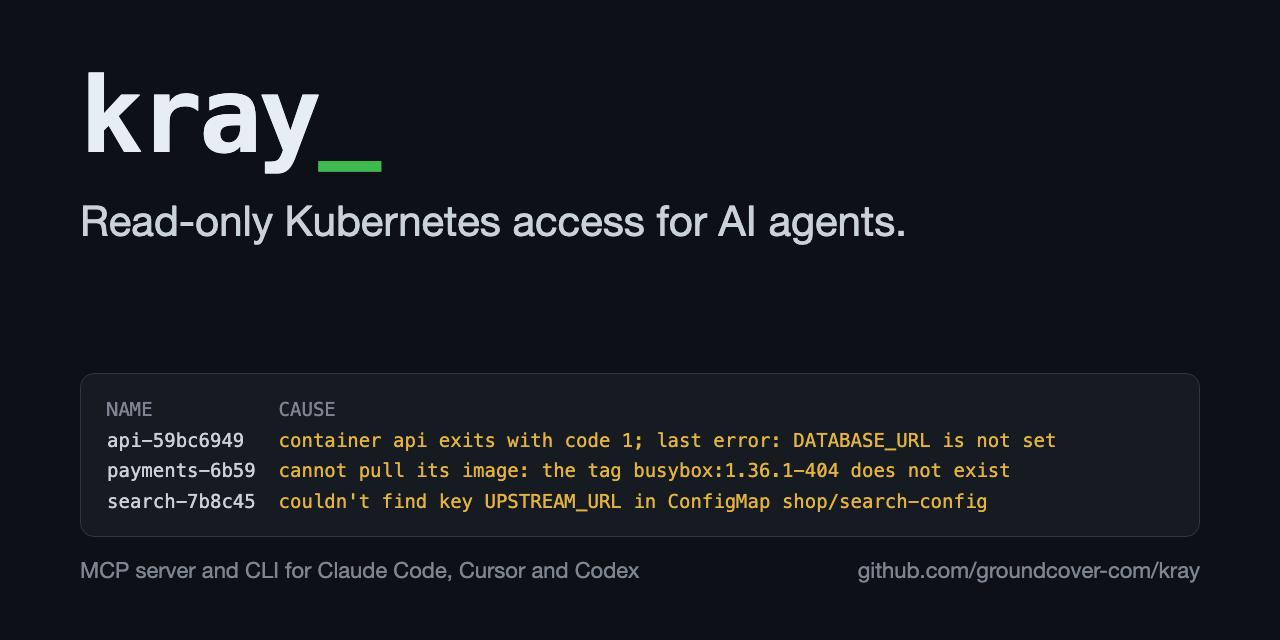
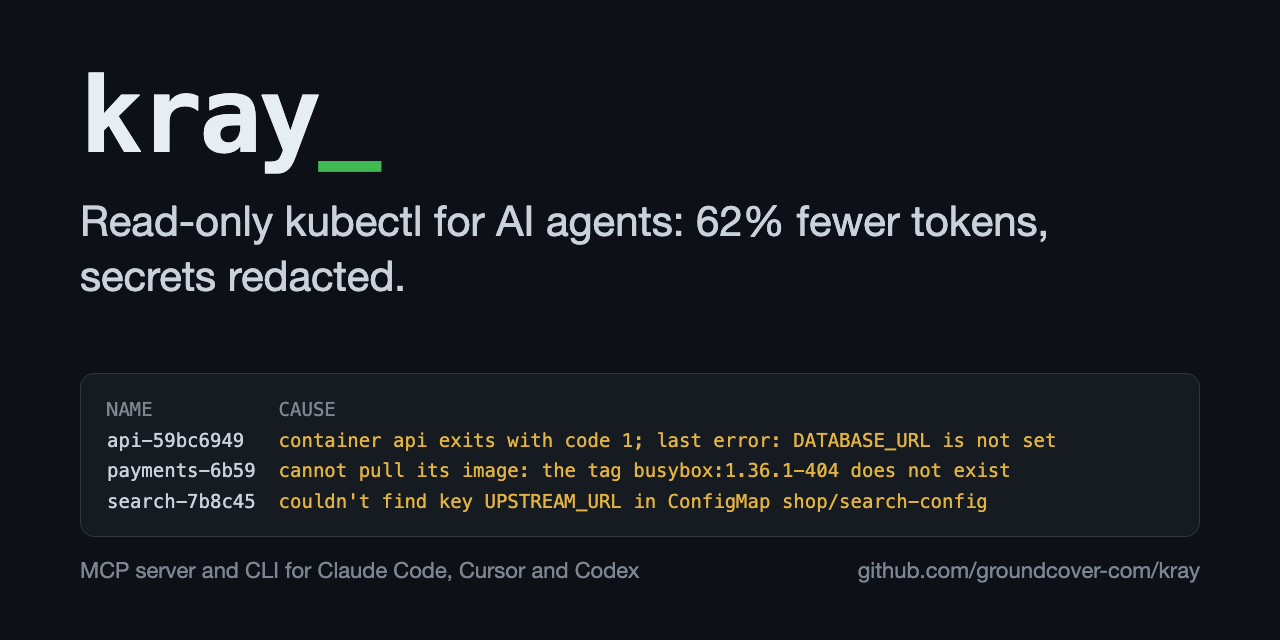
Lead the README and the preview card with tokens and redaction

Changed region(s): [[0.2188, 0.3125, 0.8125, 0.375], [0.0625, 0.4062, 0.3125, 0.4688]]

diff --git a/README.md b/README.md
@@ -1,6 +1,6 @@
 <h1 align="center">kray</h1>
 
-<p align="center"><strong>Fewer tokens, redacted secrets, and read access for AI agents on Kubernetes.</strong></p>
+<p align="center"><strong>Read-only kubectl for AI agents: 62% fewer tokens, secrets redacted.</strong></p>
 
 <p align="center">An open source project by <a href="https://www.groundcover.com/?utm_source=github&utm_medium=readme&utm_campaign=kray&utm_content=header">groundcover</a></p>
 
